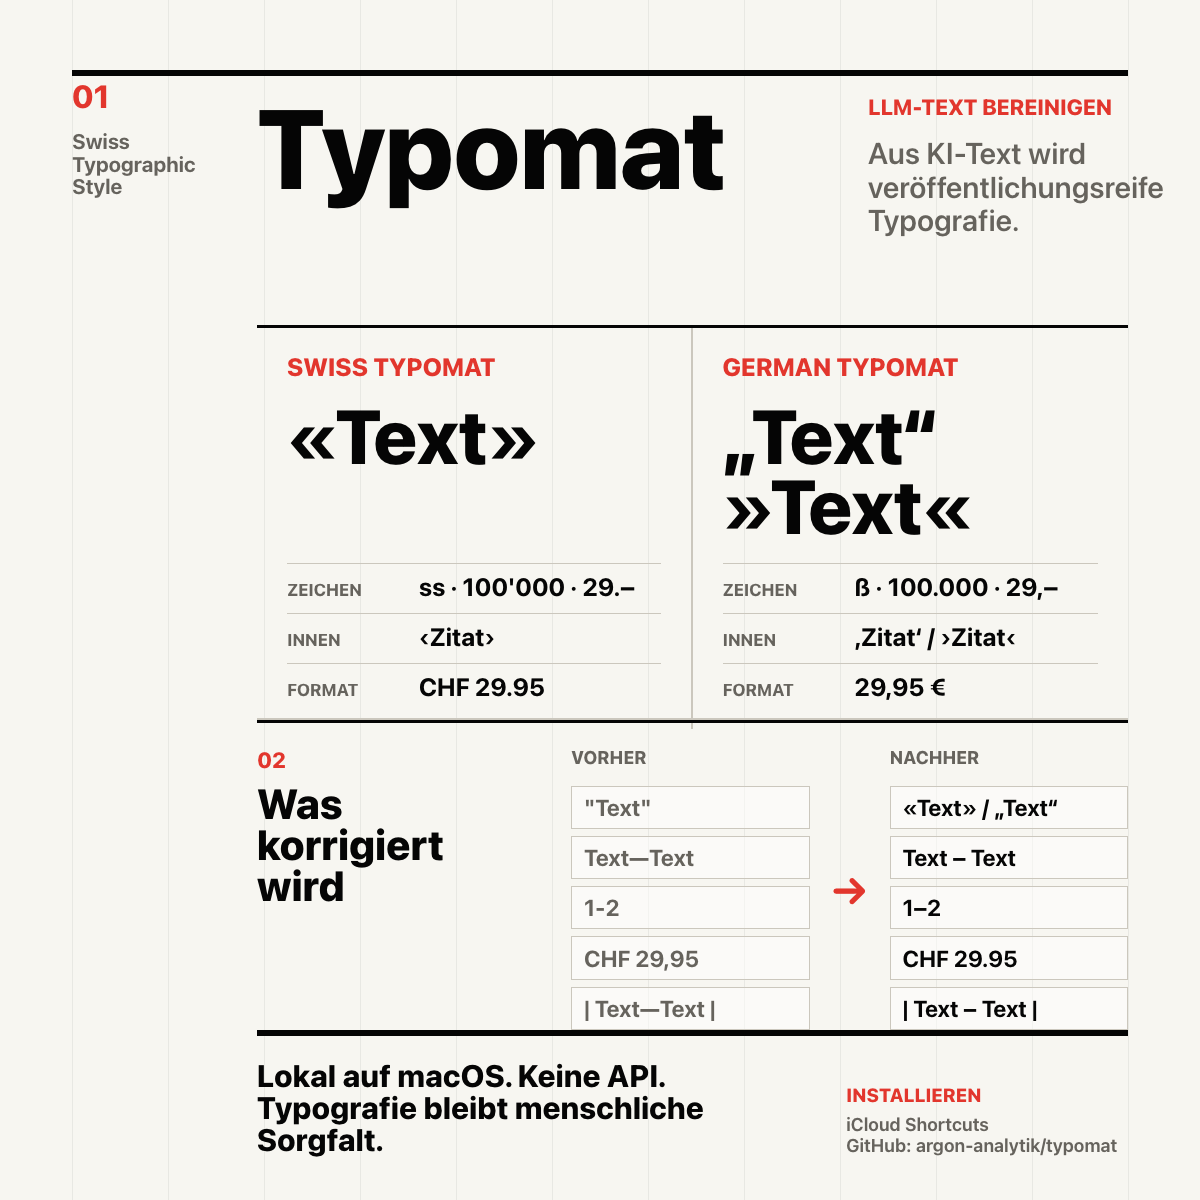
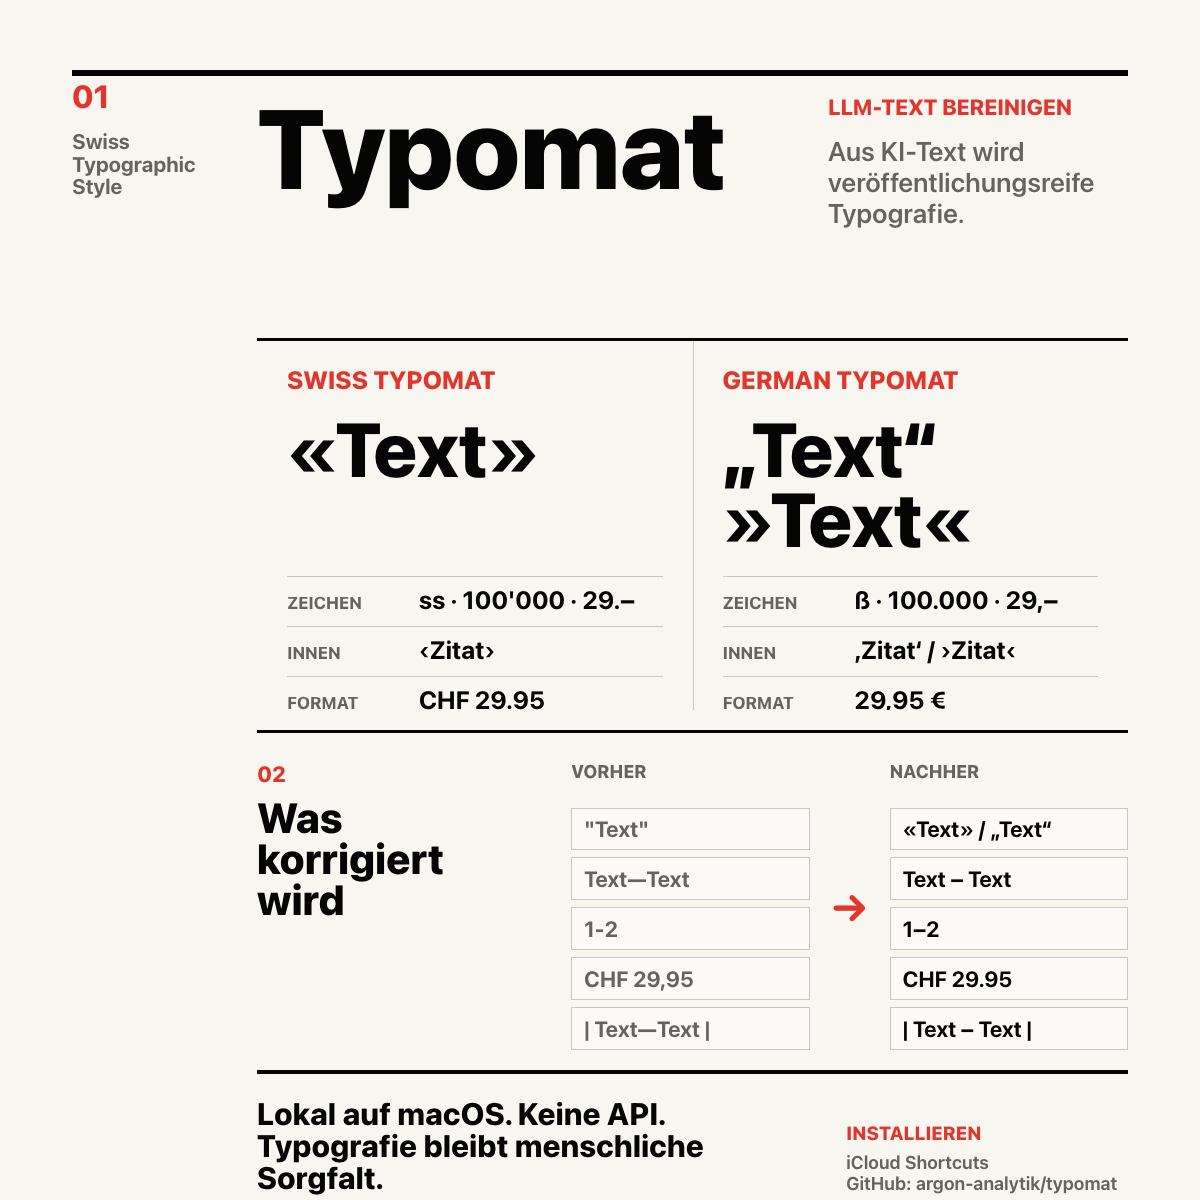
Polish Typomat LinkedIn poster

Changed region(s): [[0.2158, 0.2775, 0.9558, 1.0], [0.6783, 0.0617, 0.9558, 0.2158], [0.2158, 0.2775, 0.4625, 0.4008]]

diff --git a/poster/typomat-linkedin.html b/poster/typomat-linkedin.html
@@ -46,12 +46,10 @@
         height: 1200px;
         display: grid;
         grid-template-columns: 185px 1fr;
-        grid-template-rows: 255px 395px 310px 1fr;
+        grid-template-rows: 248px 372px 320px 1fr;
+        row-gap: 20px;
         padding: 70px 72px 56px;
-        background:
-          linear-gradient(90deg, rgba(5, 5, 5, 0.06) 1px, transparent 1px) 72px 0 /
-            96px 96px,
-          var(--paper);
+        background: var(--paper);
         overflow: hidden;
       }
 
@@ -90,8 +88,8 @@
         border-top: 6px solid var(--ink);
         padding-top: 20px;
         display: grid;
-        grid-template-columns: 1fr 260px;
-        column-gap: 42px;
+        grid-template-columns: 1fr 300px;
+        column-gap: 64px;
         align-items: start;
       }
 
@@ -105,8 +103,8 @@
 
       .hero-copy {
         color: var(--muted);
-        font-size: 30px;
-        line-height: 1.12;
+        font-size: 27px;
+        line-height: 1.14;
         font-weight: 570;
       }
 
@@ -121,24 +119,30 @@
       }
 
       .matrix {
+        position: relative;
         grid-column: 2;
         display: grid;
         grid-template-columns: repeat(2, minmax(0, 1fr));
         border-top: 3px solid var(--ink);
-        border-bottom: 2px solid var(--line);
+        overflow: hidden;
+      }
+
+      .matrix::before {
+        content: "";
+        position: absolute;
+        top: 0;
+        bottom: 0;
+        left: 50%;
+        width: 1px;
+        background: var(--line);
       }
 
       .variant {
         min-width: 0;
         padding: 26px 30px 28px;
-        border-right: 2px solid var(--line);
         display: grid;
         grid-template-rows: auto auto 1fr;
         gap: 22px;
-      }
-
-      .variant:last-child {
-        border-right: 0;
       }
 
       .variant h2 {
@@ -160,6 +164,7 @@
         display: grid;
         gap: 13px;
         align-self: end;
+        margin-bottom: 22px;
       }
 
       .rule {
@@ -190,7 +195,7 @@
         grid-template-columns: 280px 1fr;
         gap: 34px;
         border-top: 3px solid var(--ink);
-        padding-top: 26px;
+        padding-top: 30px;
       }
 
       .section-title {
@@ -238,13 +243,13 @@
       }
 
       .sample {
-        min-height: 42px;
+        min-height: 40px;
         display: flex;
         align-items: center;
-        padding: 8px 12px;
+        padding: 7px 12px;
         background: rgba(255, 255, 255, 0.48);
         border: 1px solid var(--line);
-        font-size: 23px;
+        font-size: 22px;
         line-height: 1;
         font-weight: 680;
         white-space: nowrap;
@@ -273,7 +278,7 @@
         grid-template-columns: 1fr 282px;
         gap: 36px;
         align-items: end;
-        border-top: 6px solid var(--ink);
+        border-top: 4px solid var(--ink);
         padding-top: 24px;
       }
 